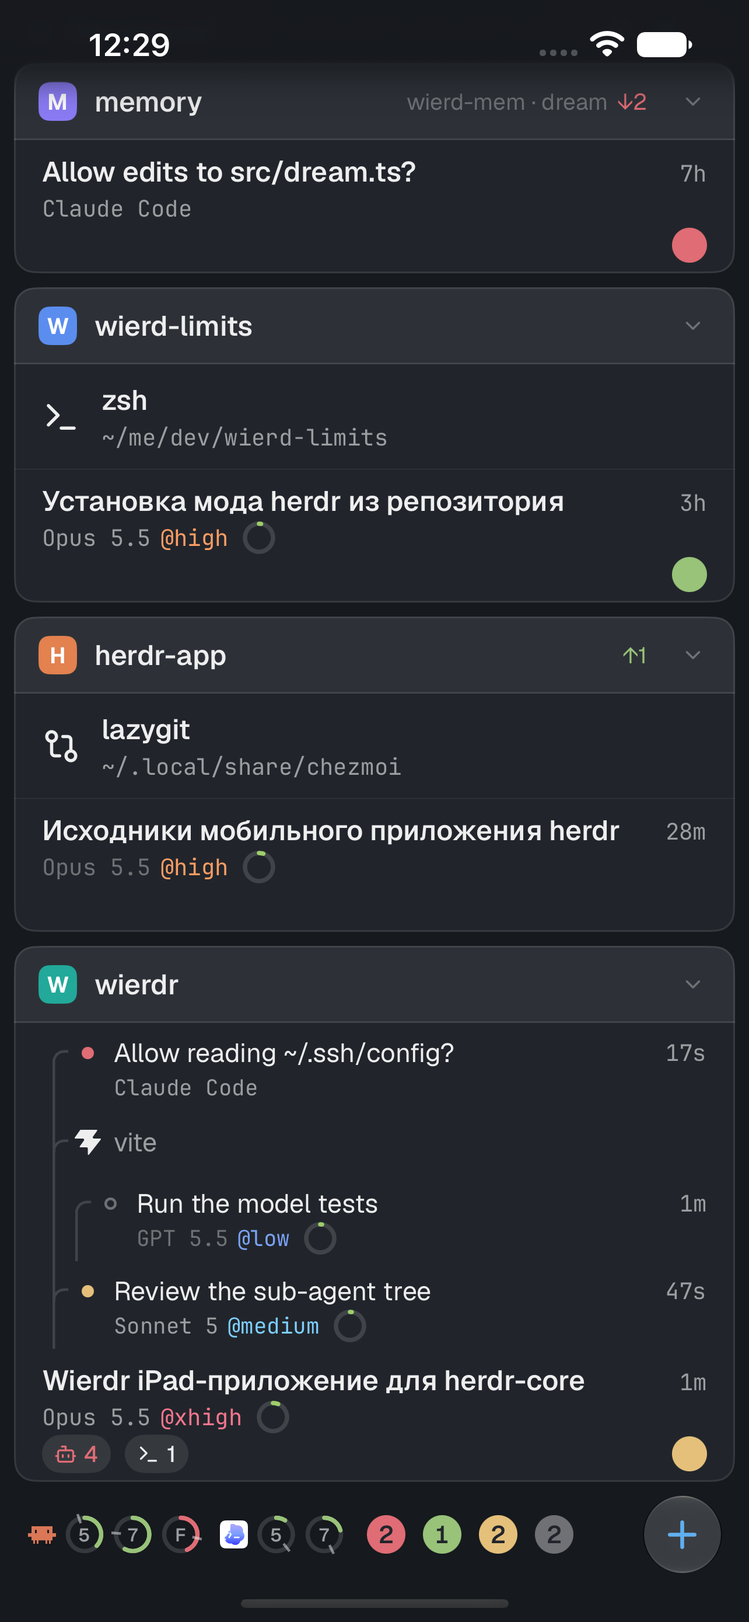
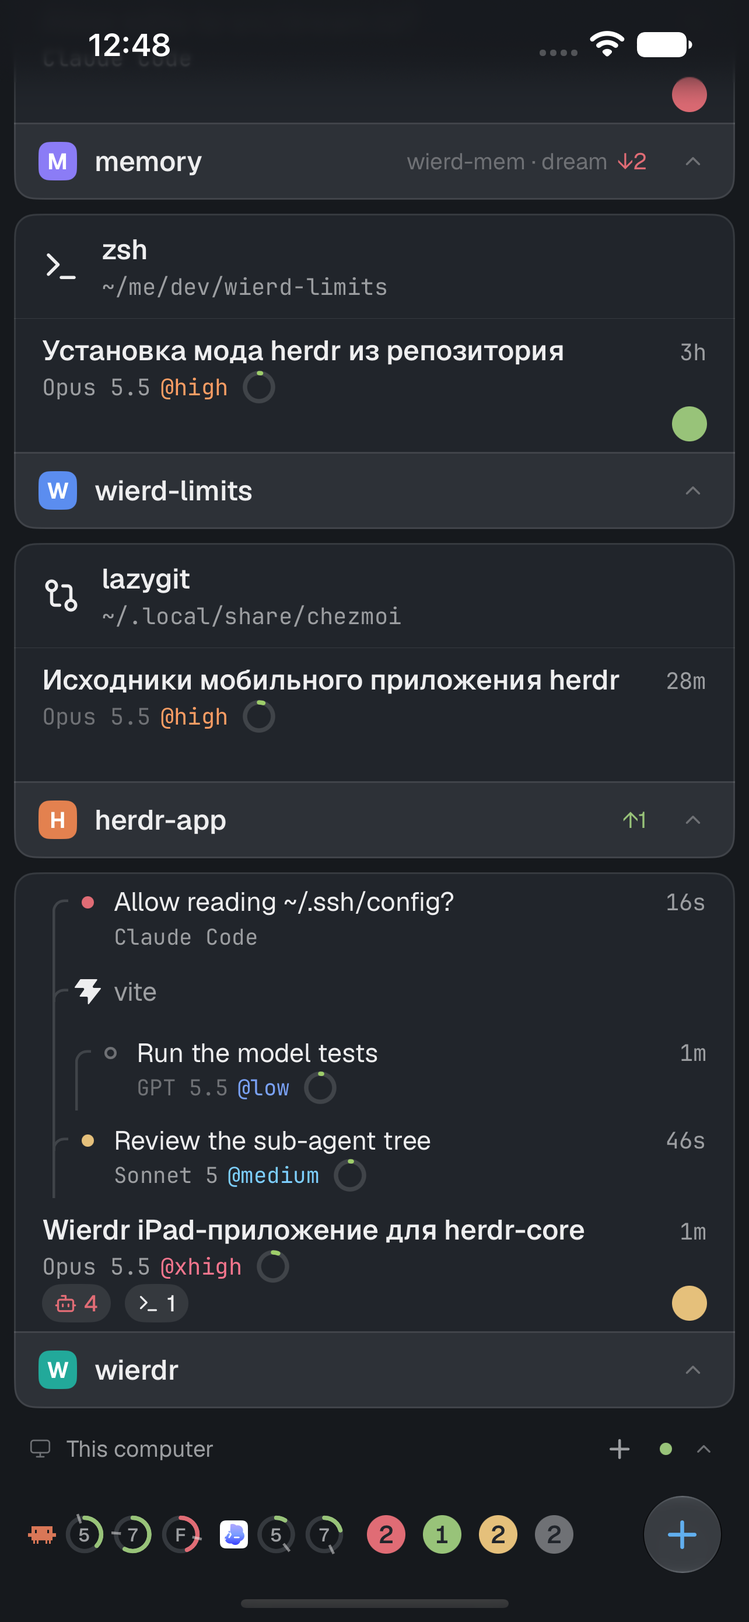
A card's header is at its bottom, and a machine's under its cards: the sidebar is drawn bottom up whole, headers too, each under what it names, nearest the thumb. SpaceCardContent draws its rows and then SpaceHeader, its hairline on top; the pinned agents are right over the header. SpacesListBlock g

diff --git a/App/Sources/Sidebar/SpacesList.swift b/App/Sources/Sidebar/SpacesList.swift
@@ -3,8 +3,8 @@ import WierdrModel
 
 /// The sidebar's list (iPhone and iPad): the space cards (`SpaceCard`), drawn bottom up
 /// for a thumb: this computer's spaces lowest, the first space at the bottom, each added
-/// machine's group over them under its header (`MachineHeader`, with fold and +); a card's
-/// rows bottom up too (the newest and pinned lowest). A vertical `ScrollView` over a lazy
+/// machine's group over them; a group's header (`MachineHeader`, with fold and +) under
+/// it, as a card's header is under its rows (the newest and pinned lowest). A vertical `ScrollView` over a lazy
 /// stack, a card an item of it, resting at its bottom: cards short of its height sit there,
 /// and a card that grows or comes keeps the ones under it in place
 /// (`defaultScrollAnchor(.bottom)` for the initial offset and size changes).
@@ -121,8 +121,8 @@ struct SpacesList: View {
         case .machine(let machine, let folded):
             MachineHeader(machine: machine, folded: folded)
                 .padding(.horizontal, Self.side)
-                .padding(.top, 6)
-                .padding(.bottom, 2)
+                .padding(.top, -2)
+                .padding(.bottom, 10)
         case .note(let text, let icon, let machine):
             NoteRow(text: text, icon: icon) {
                 if let machine { controller.newSpace(machine: .some(machine)) }
@@ -153,9 +153,9 @@ struct SpacesList: View {
 }
 
 /// An item of the list, top to bottom as drawn: with added machines, each machine's
-/// header over its group (theirs over this computer's, which is lowest), then (unless
-/// folded) its notes and its cards, the first space lowest; without, this computer's
-/// cards alone. A machine's cards are in the drag's order while one is dragged
+/// group (theirs over this computer's, which is lowest): unless folded, its notes and its
+/// cards, the first space lowest, then the machine's header under them; without, this
+/// computer's cards alone. A machine's cards are in the drag's order while one is dragged
 /// (`SpaceDrag.arranged`).
 struct SpacesListBlock: Identifiable {
     enum Kind {
@@ -179,16 +179,17 @@ struct SpacesListBlock: Identifiable {
         var out: [SpacesListBlock] = []
         for machine in ws.machines.reversed() {
             let folded = controller.foldedMachines.contains(machine.id)
-            out.append(SpacesListBlock(kind: .machine(machine, folded: folded), id: "machine:\(machine.id)"))
-            guard !folded else { continue }
-            let spaces = ws.spaces(on: machine.name)
-            if case .loading = machine.state {
-                out.append(SpacesListBlock(kind: .note("Loading…", icon: nil, machine: nil), id: "loading:\(machine.id)"))
-            } else if spaces.isEmpty && !machine.isLocal {
-                out.append(SpacesListBlock(kind: .note("New space there", icon: "plus", machine: machine.name),
-                                           id: "empty:\(machine.id)"))
+            if !folded {
+                let spaces = ws.spaces(on: machine.name)
+                out += cards(spaces, machine: machine.name)
+                if case .loading = machine.state {
+                    out.append(SpacesListBlock(kind: .note("Loading…", icon: nil, machine: nil), id: "loading:\(machine.id)"))
+                } else if spaces.isEmpty && !machine.isLocal {
+                    out.append(SpacesListBlock(kind: .note("New space there", icon: "plus", machine: machine.name),
+                                               id: "empty:\(machine.id)"))
+                }
             }
-            out += cards(spaces, machine: machine.name)
+            out.append(SpacesListBlock(kind: .machine(machine, folded: folded), id: "machine:\(machine.id)"))
         }
         return out
     }
@@ -196,7 +197,7 @@ struct SpacesListBlock: Identifiable {
 
 // MARK: - Machine header (§4.2)
 
-/// A machine's header over its group of cards: its icon and name, its agents' summary
+/// A machine's header under its group of cards: its icon and name, its agents' summary
 /// while folded, + (a new space there), its connection's dot, the fold chevron.
 struct MachineHeader: View {
     var machine: Machine
@@ -233,7 +234,9 @@ struct MachineHeader: View {
                 .fill(machine.isConnected ? theme.ansi(2) : theme.dim)
                 .frame(width: 7, height: 7)
                 .accessibilityLabel(machine.isConnected ? "Connected" : "Not connected")
-            Icon(folded ? "chevron-right" : "chevron-down", size: 13, color: theme.dim)
+            // Open, it points up, at the cards over the header.
+            Icon("chevron-right", size: 13, color: theme.dim)
+                .rotationEffect(.degrees(folded ? 0 : -90))
                 .frame(width: 20)
         }
         .padding(.horizontal, 8)

diff --git a/App/Sources/Sidebar/SpaceCard.swift b/App/Sources/Sidebar/SpaceCard.swift
@@ -1,14 +1,13 @@
 import SwiftUI
 import WierdrModel
 
-/// A space's card in the sidebar: its header (`SpaceHeader`: avatar, name, git, the
-/// agents' summary while it's folded, the chevron) and, unless folded, its rows in the
-/// iPhone's chat-row style (`PhoneListRow`), drawn bottom up as the iPhone's list was
-/// (`PhoneListLine.lines` on the space's `Workspace.phoneList`): its pinned agents
-/// lowest (the newest pin at the bottom), over them the rest by their latest status
-/// change, the oldest on top; an agent's sub-agents over it (`TreeLines.upward`); the
-/// space's terminals and desktop panels over its agents. The header stays over what it
-/// names.
+/// A space's card in the sidebar, drawn bottom up as the whole list is: at its bottom its
+/// header (`SpaceHeader`: avatar, name, git, the agents' summary while it's folded, the
+/// chevron), nearest the thumb; over it, unless folded, its rows in the iPhone's chat-row
+/// style (`PhoneListRow`), in `PhoneListLine.lines` on the space's `Workspace.phoneList`:
+/// its pinned agents lowest, right over the header (the newest pin at the bottom), over
+/// them the rest by their latest status change, the oldest on top; an agent's sub-agents
+/// over it (`TreeLines.upward`); the space's terminals and desktop panels over its agents.
 ///
 /// One view in the list (its lazy stack's item), so a fold or a pin animates inside it
 /// and a drag lifts it whole (`SpaceDrag`): dragged, it is its own slot, a dashed outline
@@ -59,7 +58,6 @@ struct SpaceCardContent: View {
 
     var body: some View {
         VStack(spacing: 0) {
-            SpaceHeader(space: space, hasRows: !page.isEmpty, closed: closed, bodyShown: bodyShown)
             if bodyShown {
                 let lines = PhoneListLine.lines(page, showsKids: controller.showsKids(of:), terminalsHeader: false)
                 ForEach(Array(lines.enumerated()), id: \.element.id) { i, line in
@@ -69,6 +67,7 @@ struct SpaceCardContent: View {
                         .transition(.opacity)
                 }
             }
+            SpaceHeader(space: space, hasRows: !page.isEmpty, closed: closed, bodyShown: bodyShown)
         }
         .animation(PhoneListMotion.move, value: pinKey)
     }

diff --git a/App/Sources/Sidebar/SpaceHeader.swift b/App/Sources/Sidebar/SpaceHeader.swift
@@ -2,7 +2,8 @@ import SwiftUI
 import WierdrModel
 
 /// A space card's header (§4.3): avatar, name, git tail, the agents' summary while the
-/// card is folded, show/hide chevron. 44 pt, on the card's top.
+/// card is folded, show/hide chevron. 44 pt, at the card's bottom (the list is drawn
+/// bottom up: a header is under what it names), a hairline over it when rows show.
 ///
 /// A tap: on the iPad it selects the space (its tab shows in the panel); in the iPhone
 /// layout, where nothing is selected, it folds or unfolds the card, as the chevron does.
@@ -45,7 +46,7 @@ struct SpaceHeader: View {
         .padding(.trailing, 8)
         .frame(height: Self.height)
         .background(headerFill(isActive: isActive))
-        .overlay(alignment: .bottom) {
+        .overlay(alignment: .top) {
             if bodyShown { Hairline() }
         }
         .contentShape(Rectangle())
@@ -104,7 +105,9 @@ struct SpaceHeader: View {
     private var chevron: some View {
         if hasRows {
             Button(action: toggle) {
-                Icon(closed ? "chevron-right" : "chevron-down", size: 14, color: chevronHover ? theme.foreground : theme.dim)
+                // Open, it points up, at the rows over the header.
+                Icon("chevron-right", size: 14, color: chevronHover ? theme.foreground : theme.dim)
+                    .rotationEffect(.degrees(closed ? 0 : -90))
                     .frame(width: 32, height: 32)
                     .background(chevronHover ? theme.raised : .clear, in: RoundedRectangle(cornerRadius: 6))
                     .contentShape(RoundedRectangle(cornerRadius: 6))

diff --git a/docs/architecture.md b/docs/architecture.md
@@ -55,7 +55,7 @@ make ipa            # dist/Wierdr.ipa (development signing)
 | `Session/` | `HostSession` (SSH → `CoreConnection` → `WorkspaceEngine` + `TerminalSessionPool`, reconnect loop with backoff, foreground health check, TOFU host-key question), `LiveConnector` (implements `AppServices`: connect/disconnect, key, passwords in Keychain, live terminal views, install key), host-key alert. |
 | `Connect/` | Host list, host editor (public key, password). |
 | `Workspace/` | `WorkspaceView` (NavigationSplitView), `WorkspaceController` (commands for buttons/menus/shortcuts, pending selection, dialogs, toasts), `WorkspaceCommands` (menu bar / ⌘ shortcuts). |
-| `Sidebar/` | The sidebar, one for both layouts (the iPhone's list screen, the iPad's split-view column and its overlay), turned for one hand: `SidebarView` (the list under the status bar and the header, Telegram's edge fades over both; in the iPhone layout the connection banner and the toasts over the header), `SidebarHeader` at the bottom (one 44-pt row, its bottom 28 pt over the screen's: at its left the subscription limits as rings, `SidebarLimits` over `PhoneLimits` in the widest of its styles that fits, every ring, the headline ring by the icon, the headline ring alone, then scrolled; in the middle the agents' counts by status, `SidebarStatusCounts`, a tap opens the first such agent, idle left out when they don't fit, or the connection's state, `SidebarTitle`; at its right + in a glass circle, `SidebarMenu`: Settings, the iPad's Hide Sidebar and a new space; `SidebarHeaderRow` gives the counts their room first and the limits what's left, and centers the counts when they fit), `SpacesList` (a `ScrollView` over a lazy stack, an item per card, drawn bottom up: this computer's spaces lowest, the first space at the bottom, each added machine's group over them under its `MachineHeader`; it rests at its bottom, `defaultScrollAnchor(.bottom)` for the initial offset and size changes, and scrolls to the bottom once the first spaces come; on the iPad the focused pane's card comes into view; `revealSpace`, set by Go to in the iPhone layout, unfolds a card and brings it into view), `SpaceCard` (one view: `SpaceHeader`, 44 pt, avatar, name, git tail, the agents' `StatusBadges` while folded, chevron; a tap selects the space on the iPad and folds it in the iPhone layout; held, `SpaceMenu`; then its rows in the iPhone's chat-row style, `PhoneListRow` on the card's surface (`rowGround`) with `PhoneAgentRowContent` / `PhoneKidRowContent` / `PhonePaneRowContent`, in `PhoneListLine.lines` of `Workspace.phoneList(space:)`: the terminals on top, the agents bottom up, pinned lowest, sub-agents over their agent with `TreeLines.upward`; on the iPad the focused pane's row (or the sub-agent shown) is `selected`; folding is `closedSpaces`), Go to (`QuickSwitcher`, ⌘P or a pull of the list: the sidebar's list pulled up past its bottom brings out a search field in the gap under the last card and, let go past the threshold, opens Go to (`Support/PullToSearch`, its `edge`: the overscroll from `onScrollGeometryChange` (at the bottom from the list's own measured height, `overscrollBottom`: the geometry's `containerSize` goes without the insets), only while the scroll phase is interacting, so a fling's bounce shows nothing; the field grows as a circle with the magnifier in the gap, stretches into the field's capsule, arms with a medium haptic, the accent filling it out of the magnifier, disarms with a light one; only the field observes it, so a step of the finger redraws no row; let go armed, it fades as the list settles; VoiceOver's Go to is an invisible button in the header, `GoToAccessibilityButton`); drawn bottom up as the iPhone list (`GoToResults.lines`): over the field the spaces with their counts as chips (this computer's lowest; with added machines each group under a divider), over them the agents in the iPhone list's rows, each block upside down, fuzzy filtered, the best lowest; the list rests at its bottom (`defaultScrollAnchor(.bottom)`, rows short of its height sit there); the field at the bottom, a glass circle at its right puts the keyboard away while it's up, and so does scrolling. On the iPad a sheet: a swipe down while the keyboard is up puts the keyboard away instead of closing it, `Support/KeyboardFirstDismissal`, a wrapper of the sheet's presentation delegate; in the iPhone layout a screen pushed over the others, `Phone/PhoneGoTo`), `LimitsPanel` (the old sidebar panel's parts: bars, percent, resets, which the rings' popover draws, `PhoneLimits`). `SpaceDrag`: reordering cards by their header. UIKit's drag and drop, not SwiftUI's: `SpaceListInteractions` (behind the list's content) puts a `UIDragInteraction` on the view that holds SwiftUI's `UIContextMenuInteraction` (the hosting view), so a header held shows its menu and moved on lifts the card, UIKit playing the two together; the drag starts only for a touch that came down on a header (`TouchCounter` keeps where, `SpaceMarker` views behind each card and header say where they are); a `UIDropInteraction` on the list's scroll view reports the drag. The system's preview is invisible and the lifted card is drawn in the window (`LiftedCard`, rendered by `SpaceDragPreview`; a display link holds it where the finger took it, on the list or off it, and scrolls the list near its top or bottom); it lands in its slot with a crossfade, or flies back there when let go off the list, which `SpaceOffListDrop`, a see-through drop target over the window during the drag, hears at once; the list shows the machine's spaces in the drag's lane order (bottom up), the dragged card as its dashed slot; the drop is `Workspace.moveSpace` (`space.move`). |
+| `Sidebar/` | The sidebar, one for both layouts (the iPhone's list screen, the iPad's split-view column and its overlay), turned for one hand: `SidebarView` (the list under the status bar and the header, Telegram's edge fades over both; in the iPhone layout the connection banner and the toasts over the header), `SidebarHeader` at the bottom (one 44-pt row, its bottom 28 pt over the screen's: at its left the subscription limits as rings, `SidebarLimits` over `PhoneLimits` in the widest of its styles that fits, every ring, the headline ring by the icon, the headline ring alone, then scrolled; in the middle the agents' counts by status, `SidebarStatusCounts`, a tap opens the first such agent, idle left out when they don't fit, or the connection's state, `SidebarTitle`; at its right + in a glass circle, `SidebarMenu`: Settings, the iPad's Hide Sidebar and a new space; `SidebarHeaderRow` gives the counts their room first and the limits what's left, and centers the counts when they fit), `SpacesList` (a `ScrollView` over a lazy stack, an item per card, drawn bottom up, headers too: this computer's spaces lowest, the first space at the bottom, each added machine's group over them, a group's `MachineHeader` under it; it rests at its bottom, `defaultScrollAnchor(.bottom)` for the initial offset and size changes, and scrolls to the bottom once the first spaces come; on the iPad the focused pane's card comes into view; `revealSpace`, set by Go to in the iPhone layout, unfolds a card and brings it into view), `SpaceCard` (one view: at its bottom `SpaceHeader`, 44 pt, avatar, name, git tail, the agents' `StatusBadges` while folded, the chevron pointing up while open; a tap selects the space on the iPad and folds it in the iPhone layout; held, `SpaceMenu`; over it its rows in the iPhone's chat-row style, `PhoneListRow` on the card's surface (`rowGround`) with `PhoneAgentRowContent` / `PhoneKidRowContent` / `PhonePaneRowContent`, in `PhoneListLine.lines` of `Workspace.phoneList(space:)`: the terminals on top, the agents bottom up, pinned lowest, sub-agents over their agent with `TreeLines.upward`; on the iPad the focused pane's row (or the sub-agent shown) is `selected`; folding is `closedSpaces`), Go to (`QuickSwitcher`, ⌘P or a pull of the list: the sidebar's list pulled up past its bottom brings out a search field in the gap under the last card and, let go past the threshold, opens Go to (`Support/PullToSearch`, its `edge`: the overscroll from `onScrollGeometryChange` (at the bottom from the list's own measured height, `overscrollBottom`: the geometry's `containerSize` goes without the insets), only while the scroll phase is interacting, so a fling's bounce shows nothing; the field grows as a circle with the magnifier in the gap, stretches into the field's capsule, arms with a medium haptic, the accent filling it out of the magnifier, disarms with a light one; only the field observes it, so a step of the finger redraws no row; let go armed, it fades as the list settles; VoiceOver's Go to is an invisible button in the header, `GoToAccessibilityButton`); drawn bottom up as the iPhone list (`GoToResults.lines`): over the field the spaces with their counts as chips (this computer's lowest; with added machines each group under a divider), over them the agents in the iPhone list's rows, each block upside down, fuzzy filtered, the best lowest; the list rests at its bottom (`defaultScrollAnchor(.bottom)`, rows short of its height sit there); the field at the bottom, a glass circle at its right puts the keyboard away while it's up, and so does scrolling. On the iPad a sheet: a swipe down while the keyboard is up puts the keyboard away instead of closing it, `Support/KeyboardFirstDismissal`, a wrapper of the sheet's presentation delegate; in the iPhone layout a screen pushed over the others, `Phone/PhoneGoTo`), `LimitsPanel` (the old sidebar panel's parts: bars, percent, resets, which the rings' popover draws, `PhoneLimits`). `SpaceDrag`: reordering cards by their header. UIKit's drag and drop, not SwiftUI's: `SpaceListInteractions` (behind the list's content) puts a `UIDragInteraction` on the view that holds SwiftUI's `UIContextMenuInteraction` (the hosting view), so a header held shows its menu and moved on lifts the card, UIKit playing the two together; the drag starts only for a touch that came down on a header (`TouchCounter` keeps where, `SpaceMarker` views behind each card and header say where they are); a `UIDropInteraction` on the list's scroll view reports the drag. The system's preview is invisible and the lifted card is drawn in the window (`LiftedCard`, rendered by `SpaceDragPreview`; a display link holds it where the finger took it, on the list or off it, and scrolls the list near its top or bottom); it lands in its slot with a crossfade, or flies back there when let go off the list, which `SpaceOffListDrop`, a see-through drop target over the window during the drag, hears at once; the list shows the machine's spaces in the drag's lane order (bottom up), the dragged card as its dashed slot; the drop is `Workspace.moveSpace` (`space.move`). |
 | `Panel/` | Tab bar + new menu, pane tree with weights, pane cards/headers, the message field under the panes (`ComposerBar`), terminal view seam (`TerminalViewProvider`), demo terminal. `SubAgentPeek`: a sub-agent without a pane over the window (iPad; `WorkspaceController.peek`), with Keep/Close; the iPhone shows `peek` on `PhonePaneScreen` in its parent's place. `KeyLayerHost`: the iPad's one key panel (`KeyPanelLayer` on a clear rect laid over the panes' frame, `controller.keyArea`, reported by `TerminalPanel`), drawn over the whole window, so over the sub-agent's window too, for the focused pane's terminal or the sub-agent looked at (`controller.keys`). |
 | `Phone/` | The iPhone (and narrow iPad window) layout, after Telegram's chat list and chat: `PhoneWorkspaceView` (Telegram's navigation: the list is the root screen and the pane screen is pushed over it while `compactColumn == .detail`; `PhoneNavController`, a UIKit container, moves both screens by Core Animation at a progress (the pane's at (1 − p)·W, its card `PhoneCardView` with the display's corners and a faint shadow while it moves; the list at −0.3·W·p under a black dim): a finger sets the layers, pushes and pops are SwiftUI's springs played as keyframes by the render server (`PhoneSpring`: critically damped 0.3 s, or damping 0.85 from the finger's speed, stopping at its end); each screen is a hosting controller filling the window (`PhoneHosting.swift`: `PhoneHosted` carries the app's environment over, `PhoneHostContext`, and the container's safe area, UIKit's being ignored as it changes while a view moves); while a finger moves the pane screen or Go to, `PhoneFrameRateBoost` asks the display for 120 Hz (`CADisableMinimumFrameDurationOnPhone` in Info.plist); `PhoneBackSwipe` (a pan on the window's root view, `PhoneBackSwipeRecognizer`: Telegram's 2-pt start rule, every other pan waits for it, the key panel's first while it's out) and `PhonePopTracker` (UIKit's release rule) for the swipe back; popped, the pane screen leaves the hierarchy; attention banner), the list screen is the sidebar (`Sidebar/SidebarView`, the space cards, as on the iPad; nothing selected on it), the rows' pieces it draws are here: `PhoneListRow` (Telegram's chat-row frame: the pinned background, the press highlight, the iPad's selection, separators, its ground `rowGround`, Telegram's swipe actions, `PhoneRowSwipe`: `PhoneRowPan`, round buttons, full swipe), `PhoneAgentRow` (the rows' contents: an agent's three lines, a sub-agent's two, a terminal's), `PhoneLimits` (per account its icon and a `LimitRing` per limit, the old sidebar's bar bent round, its mark inside, `Limits.symbol`; a tap shows the account's limits in a popover over it); the order is `Workspace.phoneList(space:)`, Telegram's, pinned by pin time (`herdr.pinned` holds it, `TerminalInfo.pinnedAt`); `PhonePaneScreen` (top bar, Telegram's chat header in the message field's glass (`ComposerGlassGroup` / `composerGlass` from `Input/ComposerBar`): 44-pt pills, Telegram's back button "‹", or "‹ (N)" while other agents aren't idle (`WorkspaceController.attention(excluding:)`), the title capsule ringed with the agent's status (a 1.5-pt keyline on the glass, as the Dynamic Island's: glass of another tint doesn't merge with the list button's as it goes into the capsule and comes back out of it), title over space; the bar floats over the terminal (the screen keeps its collapsed 56 pt), so a tap on the capsule can grow it (left over the list button, always; down over the terminal, which keeps its size, for a title cut on one line) and slide the pane menu down (`PhonePaneMenu`, its own glass panel rather than a system `Menu`, which on iOS 26+ morphs out of its label and hides it) under the capsules' row (not in the capsule's column, which moves left as it grows), over a layer that takes the tap that closes it; the terminal and under it the message field, `Input/ComposerBar`, the key panel over the terminal), `PhoneGoTo` (Go to in the iPhone layout: a third screen of `PhoneNavController` rather than a sheet, over the list and the pane screen: its card (`goCard`) comes up from under the screen (`enterGo`, keyframes of its vertical translation on a critically damped 0.35-s spring) and goes as a pane screen does, to the right, at (1 − g)·W (no parallax under it, a dim of its own), on the same springs and the same swipe right (`PhoneBackSwipe` takes Go to while it's mounted); the keyboard goes as it starts or Go to closes, animated; a pane or a space chosen there is put under it at once (`navigate` without a move) and Go to goes off it. While Go to is mounted, SwiftUI's keyboard safe area is off in the hosting controllers above the container (`KeyboardRegionOff`, the iPad's `keyboardCoverPadding` mechanism; `.ignoresSafeArea` on the container wasn't enough on iOS 27), so the screens under Go to stay whole, and Go to's card follows the keyboard itself (`keyboardMoved`: UIKit's keyboard notification, set off at once on its curve; the card's bottom 20 pt behind the keyboard, a skirt of its ground down to the screen's bottom): squeezed over the keyboard, the screens grew back only at SwiftUI's next update, late when the main thread was busy as Go to went (a tab's page made), and the window's black showed under the keyboard as it went down. `PhoneGoToRoot` hosts `QuickSwitcher` (its list fading under the status bar); the safe area's bottom (the home indicator's) goes to the field's bar, `barBottom`, not as safe area, which the list's scroll view wouldn't count as its inset), `PhoneKeyPanel` (key column pulled out over the terminal, its keys pills in the same glass, one `ComposerGlassGroup`, ⏎ with the send button's accent pill; scrolls rest where the end key shows whole and the next one half (`restRange`); less room moves the keys only to keep that, animated, more room leaves them; a constant empty room above and below the keys and Hide's place kept, the limits only where a finger's scroll ends (`KeyColumnStops`), the app's own scrolls to an offset (`ScrollPosition`); see `Input/`: keys → `TerminalSession.send(key:)`, clipboard text → `send(text:submit: false)` or into the message). `WorkspaceView` picks it when `Device.isPhone` or the width is compact; `WorkspaceController.singlePane` makes "seen" follow the one pane on screen. |
 | `Input/` | `ComposerBar`: the message field, always under the terminal (iPhone), under all the panes (iPad, for the focused one) and at the bottom of a sub-agent's window, hidden while the terminal has the keyboard itself; Telegram's composer (geometry, glass, motion: `ComposerMotion`) in the theme's colors: the attach menu (photo, file, clipboard image → `TerminalSession.put`, `Support/ImageForAgent`, the path into the draft), the field (`ComposerTextView`, a `UITextView`: one truncated line without the keyboard, grows to Telegram's cap with it; on the iPad a 1-pt input accessory for `KeyboardCover`), the send button inside it (one paste + Return via `TerminalSession.send(text:submit:)`); drafts in `WorkspaceController.drafts`, the field with the keyboard is `WorkspaceController.composing`. `KeyPanelLayer`: the key panel (`PhoneKeyPanel`) over a terminal area and how it and the keyboards come, shared by the iPhone screen and the iPad panel: a swipe to the left anywhere on a terminal (`PhoneKeyPanelGestures`, on the window's root view: the terminal's pans wait for it; ⏎ comes out where the swipe began); VoiceOver: the terminal's action Keys (`WierdrTerminalView.appActions`). The terminal's own keyboard comes with a finger's double tap on it (`WierdrTerminalView`); while a keyboard is up, a double tap hides it (the field down to one line). |

diff --git a/docs/TRADEOFFS.md b/docs/TRADEOFFS.md
@@ -68,7 +68,7 @@
 | Тап по терминалу | Клик в программу — и при открытой клавиатуре, она остаётся (прокрутка тоже). Двойной тап — клавиатура терминала, при открытой клавиатуре (терминала или поля) — убрать её (на обоих устройствах); поле сообщения — тапом по нему, под терминалом | pi и vim с мышью получают клики, а чтение не перебивает выскочившая клавиатура; с клавиатурой можно кликать и листать, не теряя её. Двойной тап ловит свой распознаватель (с клавиатурой — распознаватель панели клавиш на корневом view, без неё — терминала), тапы SwiftTerm ждут его провала: в программу на двойной тап ничего не уходит. Цена: пальцем двойной/тройной тап больше не выделяет слово/строку (выделение — меню долгого тапа; указателем двойной/тройной клик выделяет по‑прежнему); одиночный клик, как и раньше, ждёт, не будет ли второго тапа. Панель клавиш тап не закрывает (только свайп вправо): тап рядом с ней — клик в программу. |
 | Сайдбар на iPhone | Как список чатов Telegram: первый экран; панель — экран поверх него (push справа, свайп назад в любом месте панели), с движением Telegram (iOS 26): параллакс 0,3, затемнение, скруглённые углы, пружины и правило отпускания UIKit | Свой контейнер вместо `NavigationStack`: точные пружины и правила Telegram (без резинки за краями, без перелёта), начало свайпа через 2 pt, а терминал (его панорамы, выделение, панель клавиш) договаривается с жестом назад сам. Пока ты в списке, ни один агент не выбран: экран панели убирается из иерархии (терминал отключится через минуту; вернёшься раньше — вывод на месте, иначе переаттач). Скруглённые углы — радиус экрана из закрытого свойства `UIScreen` (нет — углы прямые); оба экрана во всё окно (фоны уходят под статус‑бар и полоску «домой»), содержимое — в безопасной зоне. Свайп назад ждут все остальные панорамы панели (на вертикальном движении он проваливается за 2 pt). |
 | Движение на iPhone | Сайдбар (список) и экран панели — UIKit‑вью (в каждой `UIHostingController` со SwiftUI), их двигает Core Animation, как у Telegram: палец ставит слой, push и pop (пружины SwiftUI, сэмплированные в ключевые кадры) играет render server. Ключ `CADisableMinimumFrameDurationOnPhone`, а пока палец ведёт экран панели или Go to — display link, просящий 120 Гц | Анимации SwiftUI считались на главном потоке: каждый кадр ~5 мс, на pop пересчитывалось пол‑приложения; кадры терялись (замер на iPhone 13 Pro Max: заминки 33–50 мс, ведение пальцем 60 Гц). Теперь главный поток в движении не нужен: ведение — 120 Гц. Цена: окружение SwiftUI в хостинг‑контроллер не переходит — нужные значения переносятся руками (`PhoneHostContext`; новое значение окружения, которое читают внутри, надо добавить туда); безопасную зону хостинг‑контроллеры не берут у UIKit (у сдвинутой вью она меняется на каждом шаге) — её отдаёт неподвижный контейнер. (Страницы спейсов и полоса табов тоже были Core Animation — их больше нет, см. «Сайдбар: один на iPad и iPhone».) |
-| Список под одну руку | Шапка (лимиты, счётчики, + с меню) — внизу экрана, одной строкой; карточки снизу вверх (первый спейс внизу, у шапки), строки в карточке тоже: закреплённые и свежие внизу, сабагенты над агентом (дерево перевёрнуто), терминалы спейса — над агентами; короткий список прижат к шапке; Go to — вытягиванием списка вверх, и в Go to так же: спейсы над полем, агенты выше. Так же на iPad | Всё частое — под большим пальцем: тап по свежему агенту, сворачивание карточек, +, поиск — без перехвата телефона (и iPad в руках). Цена: читается против привычки (у Telegram и у десктопа новое сверху; первый спейс десктопа здесь — нижний), VoiceOver читает сверху, то есть от старых; заголовок (карточки, машины) стоит над своими строками, так что порядок разделов отражён, а не каждой строки; список стоит у нижнего края через `defaultScrollAnchor(.bottom)` (начальное смещение и смена размеров; роль `.alignment` не берём — с минимальной высотой `ScrollView` становился высотой с содержимое), а когда первые спейсы приходят уже после раскладки (подключение), список один раз прокручивается вниз сам |
+| Список под одну руку | Шапка (лимиты, счётчики, + с меню) — внизу экрана, одной строкой; карточки снизу вверх (первый спейс внизу, у шапки), их заголовки — внизу карточек, заголовки машин — под своими карточками, строки в карточке тоже: закреплённые и свежие внизу, сабагенты над агентом (дерево перевёрнуто), терминалы спейса — над агентами; короткий список прижат к шапке; Go to — вытягиванием списка вверх, и в Go to так же: спейсы над полем, агенты выше. Так же на iPad | Всё частое — под большим пальцем: тап по свежему агенту, сворачивание карточек, +, поиск — без перехвата телефона (и iPad в руках). Цена: читается против привычки (у Telegram и у десктопа новое сверху; первый спейс десктопа здесь — нижний), VoiceOver читает сверху, то есть от старых; отражено всё, и заголовки тоже: заголовок карточки — внизу, под её строками, заголовок машины — под её карточками (решение 16.11; на десктопе и в Go to заголовок над своим); список стоит у нижнего края через `defaultScrollAnchor(.bottom)` (начальное смещение и смена размеров; роль `.alignment` не берём — с минимальной высотой `ScrollView` становился высотой с содержимое), а когда первые спейсы приходят уже после раскладки (подключение), список один раз прокручивается вниз сам |
 | Go to на iPhone | Экран поверх остальных: выезжает снизу (как вытянут список), закрывается как экран панели — свайпом вправо в любом месте (тот же жест, правило отпускания и пружины), выбором строки, Esc. Клавиатуру убирает кнопка справа от поля или прокрутка | У листа закрытие — свайп вниз с верха списка, а этот список стоит у нижнего края; свайп вправо — уже привычный жест «назад» на iPhone. Было: панель снизу, уходящая свайпом вверх по списку у его края, — заменено по просьбе на жест экранов; появление снизу оставлено. Цена: приходит по одной оси, уходит по другой, и под ним нет параллакса (экраны стоят, только темнеют); Go to — третий экран контейнера навигации; выбранная панель подкладывается под Go to без анимации, и он уезжает с неё; пока Go to на экране, безопасная зона клавиатуры у SwiftUI выключена (как на iPad для `keyboardCoverPadding`): экраны под ним не сжимаются, а сам Go to следует за клавиатурой по её уведомлениям UIKit, запуская анимацию сразу (сжатые экраны вырастали обратно только на следующем обновлении SwiftUI — поздно, если главный поток занят, например новой страницей таба, — и под уходящей клавиатурой было чёрное окно; `.ignoresSafeArea` на iOS 27 этого не выключал); место под индикатором «домой» отдаётся полосе поля, а не безопасной зоне (её `ScrollView` не засчитывал в отступ, и нижние строки уходили под поле). На iPad Go to — по‑прежнему лист |
 | Спейсы на iPhone | Карточки спейсов, как на iPad: сворачиваются (тап по заголовку — на iPhone ничего не выбирается) и переставляются перетаскиванием за заголовок; табов спейсов, листания и режима Reorder Tabs нет | Один сайдбар на оба устройства (решение 16.11). Фильтр — свёрнутые карточки (запоминаются), порядок — перетаскивание прямо в списке, как на iPad; у свёрнутой карточки — git и бейджи статусов. Цена: ленты всех агентов по свежести поперёк спейсов больше нет (она осталась в Go to и в счётчиках шапки: тап — первый агент со статусом); на спейс не перейти свайпом; карточки занимают ширину (по 8 pt с боков). Меню спейса — long‑press по заголовку (Rename, New Tab ›, Close). Спейс ходит только среди спейсов своей машины: у каждой машины свой документ, `space.move` переставляет внутри одного. |
 | Строки сайдбара | Как строки чатов Telegram, без большого аватара: статус — на месте счётчика непрочитанных, закреплённые внизу на сером, порядок — по последней смене статуса; на iPhone и на iPad | Всё, что было в строке старого сайдбара iPad, осталось (модель, effort, контекст, сабагенты, машина), но крупнее и без групп по статусу и скобок сплит‑табов; значков нет (ни значка провайдера: он ясен из модели); контекст — кольцо вместо полоски, без числа и метки кэша; срочное видно по красным/зелёным/жёлтым кружкам справа и бейджам свёрнутых карточек. Шрифты — iPad (Geist, моноширинный для модели и возраста), на iPhone тоже; на iPad строки теперь крупнее (76 pt вместо 52), в 300 pt влезает меньше. Время закрепления — в значении метки `herdr.pinned` (десктоп видит любое непустое как «закреплён»; его «1» — после закреплённых здесь). Кнопки свайпов — свои, круглые, как у Telegram (иконки статичные, без Lottie); на iPad в оверлее свайп влево по строке закрывает оверлей, а не открывает Close. |

diff --git a/docs/FEATURES.md b/docs/FEATURES.md
@@ -38,8 +38,10 @@ iPad — карточки спейсов (сворачиваются, перет
 списка iPhone — строки агентов в стиле Telegram, порядок снизу вверх, шапка внизу и кольца
 лимитов. Всё, до чего дотягивается большой палец, внизу.
 
-- **Список снизу вверх**: карточки спейсов, первая — нижняя, у шапки; спейсы этого компьютера
-  ниже всех, спейсы добавленных машин — над ними. Список стоит у нижнего края (короткий —
+- **Список снизу вверх**, отражённый целиком: карточки спейсов, первая — нижняя, у шапки;
+  спейсы этого компьютера ниже всех, спейсы добавленных машин — над ними; заголовок — под
+  тем, что он называет (у карточки — внизу, под её строками; у машины — под её карточками),
+  ближе к пальцу. Список стоит у нижнего края (короткий —
   прижат к шапке); карточка, что выросла или появилась (развернулась, пришёл агент), не
   двигает карточки под собой — сдвигаются верхние. Строки уезжают под шапку и под статус‑бар
   (там лёгкое затенение, как у Telegram).
@@ -107,19 +109,21 @@ iPad — карточки спейсов (сворачиваются, перет
   (за пальцем). Закрывается свайпом влево (где угодно, по строкам тоже: свайп строки влево
   в оверлее не открывает Close), тапом по затемнению, тапом по строке, кнопкой сайдбара
   или ⌘B. При пристыкованном сайдбаре свайп вправо по терминалу ничего не делает.
-- **Машины**: заголовки «THIS COMPUTER» и добавленных машин (`hc machine add`, например `lf`)
-  появляются, когда есть удалённые машины, — над своей группой карточек; сворачиваются
-  (свёрнутая показывает бейджи статусов своих агентов); «+» создаёт спейс на этой машине.
+- **Машины**: заголовки «This computer» и добавленных машин (`hc machine add`, например `lf`)
+  появляются, когда есть удалённые машины, — под своей группой карточек; сворачиваются
+  (свёрнутая показывает бейджи статусов своих агентов; шеврон открытой смотрит вверх, на
+  карточки); «+» создаёт спейс на этой машине.
   Спейсы удалённых машин читаются из их собственных документов `herdr-app` через ядро Mac.
-- **Карточки спейсов**: заголовок (44 pt) — аватар с буквой и цветом **из твоего десктопа**
+- **Карточки спейсов**: заголовок (44 pt, внизу карточки) — аватар с буквой и цветом **из твоего десктопа**
   (`shared.json` → `space.colors`), имя (своё или автоматическое — по git‑репозиторию/папке
   первого терминала, как в Herdr), git‑хвост (`repo · branch`, ↑ahead ↓behind), в свёрнутом
   виде — бейджи статусов (сколько агентов ждут тебя, закончили, работают — кружки цвета
   статуса с числом; сабагенты считаются в спейсе родителя), шеврон «скрыть/показать строки»
-  (запоминается). Тап по заголовку: на iPad — выбрать спейс (выбранный подсвечен акцентом),
+  (запоминается; у развёрнутой смотрит вверх, на строки). Тап по заголовку: на iPad — выбрать спейс (выбранный подсвечен акцентом),
   на iPhone (там ничего не выбрано) — свернуть/развернуть. Long‑press — меню: Rename…,
-  New Tab › (терминал или установленный агент), Close Space. Под заголовком — строки спейса:
-  сверху его терминалы и панели десктопа, под ними агенты.
+  New Tab › (терминал или установленный агент), Close Space. Над заголовком — строки спейса:
+  сверху его терминалы и панели десктопа, под ними агенты, закреплённые — прямо над
+  заголовком.
 - **Перетаскивание спейсов**, как в `wierd-agents`: карточку берут за заголовок (пальцем —
   удержать и повести, как везде в iOS: меню спейса уходит, карточка поднимается; указателем —
   нажать и тянуть, меню — правым кликом) — она поднимается целиком, со строками (тень,
